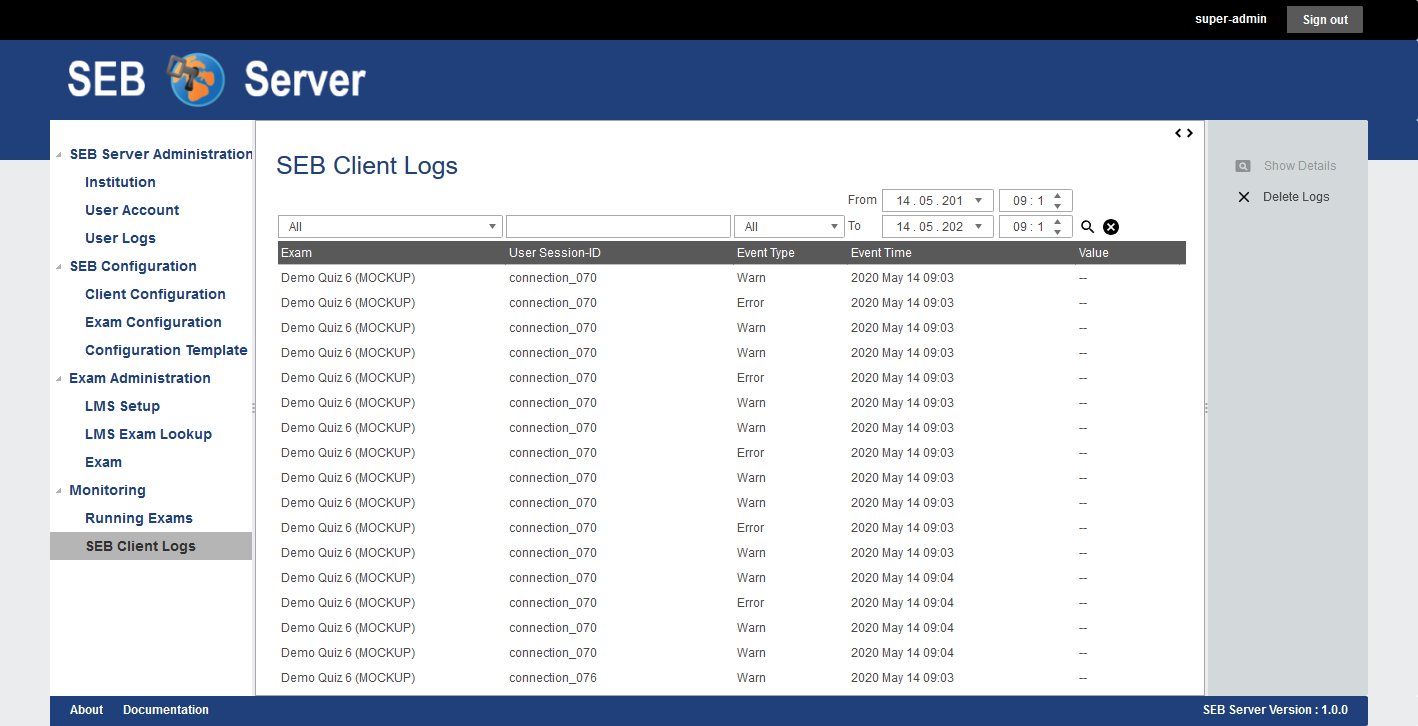
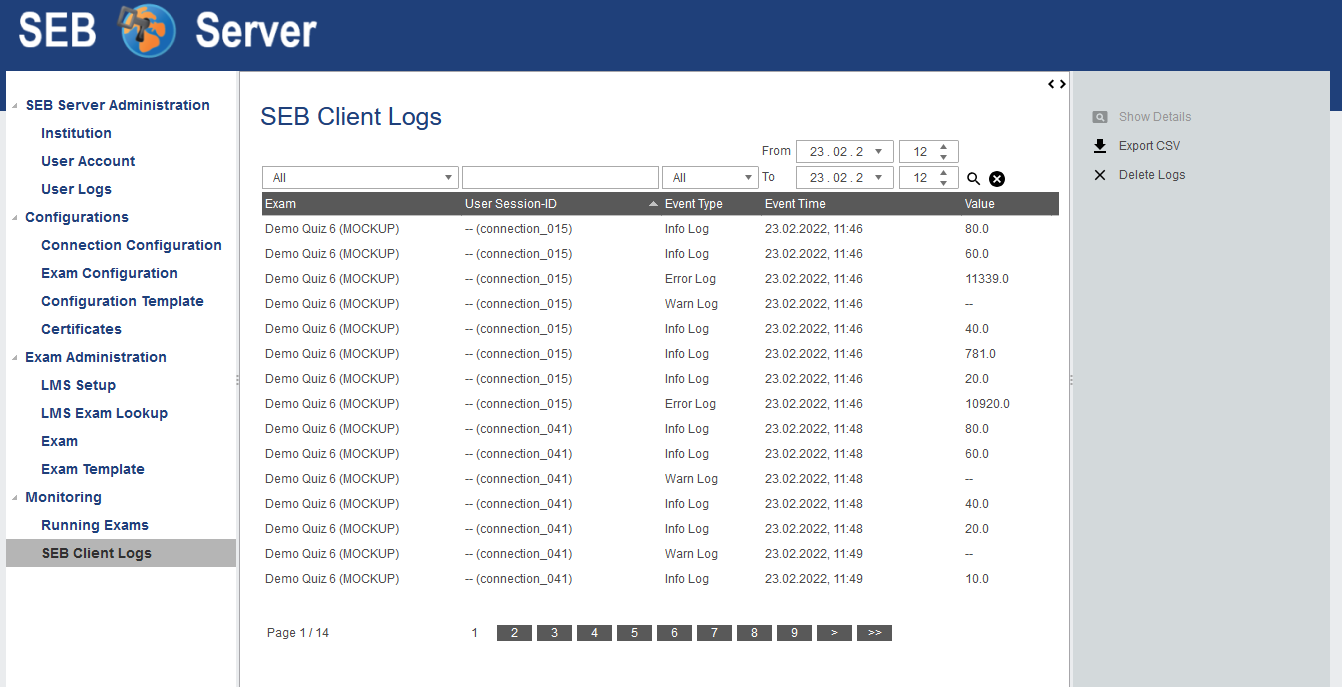
Update user-docu

diff --git a/src/main/java/ch/ethz/seb/sebserver/gui/content/exam/ExamProctoringSettings.java b/src/main/java/ch/ethz/seb/sebserver/gui/content/exam/ExamProctoringSettings.java
@@ -326,6 +326,24 @@ public class ExamProctoringSettings {
 
             return () -> formHandle;
         }
+
+//        TODO
+//        private void procServiceSelection(final Form form) {
+//            final ProctoringServerType proctoringServerType = ProctoringServerType
+//                    .valueOf(form.getFieldValue(ProctoringServiceSettings.ATTR_SERVER_TYPE));
+//            switch (proctoringServerType) {
+//                case ZOOM: {
+//                    form.setFieldVisible(true, ProctoringServiceSettings.ATTR_SDK_KEY);
+//                    form.setFieldVisible(true, ProctoringServiceSettings.ATTR_SDK_SECRET);
+//                    break;
+//                }
+//                default: {
+//                    form.setFieldVisible(false, ProctoringServiceSettings.ATTR_SDK_KEY);
+//                    form.setFieldVisible(false, ProctoringServiceSettings.ATTR_SDK_SECRET);
+//                }
+//            }
+//        }
+
     }
 
 }

diff --git a/docs/monitoring.rst b/docs/monitoring.rst
@@ -21,9 +21,9 @@ exam administrator of your institution to get help and check if you are correctl
 To monitor an exam either double-click on the list entry of the exam or select the list entry and use the "Monitoring" action form the
 right action pane to navigate into the main page of exam monitoring.
 
-On the the main page of exam monitoring you find a list of all SEB client connections that has been connected to the exam since the
-exam is running. There are some filter switches on the right action pane that may hide some canceled and/or closed SEB connections but
-you should see at least all active connections instantly.
+On the the main page of exam monitoring you find a heat-map list of all SEB client connections that are connected to the exam since the
+exam is running. There are state filter switches on the right action pane that allows to show/hide SEB client connection of specified states.
+As default you should see at least all active connections instantly.
 
 .. image:: images/monitoring/examMonitoring.png
     :align: center
@@ -33,12 +33,32 @@ The list is automatically sorted in the way that SEB connections with incidents 
 "User Name or Session" identifier criteria. The general SEB client connection attributes are:
 
 - **User Name or Session** The user account or user session identifier sent by the LMS to the SEB client and from SEB client to the SEB Server. This identifier may vary depending on the LMS that is involved. For Open edX it is the user account identifier (username). 
-- **IP Address** The IP address of the device the connected SEB client is running.
-- **Status** The status of the SEB client connection. 
+- **Connection Info** The IP address of the device the connected SEB client is running plus some additional information about the operating system and the SEB version.
+- **Status** The status of the SEB client connection.
 
-This general attributes are followed by the indicator attributes of all indicator defined by the exam. The column name of an indicator is
-the name of the indicator defines in the exam and the cell shows the measured value of the indicator for each SEB client connection and
-the cell is tinted in the color of the reached threshold also defined for each indicator on the exam.
+The following SEB connection states are defined:
+
+- **Connection Requested** This state appears from when a SEB client contacted to SEB Server the first time until the SEB client has finished up the hand-shake protocol with the SEB Server and the student has logged into the LMS.
+- **Active** This state appears after successful hand-shake and login into LMS and stays as long as the SEB connection is available and not closed or terminated
+- **Missing** This state appears when a SEB connection is currently in active state but has missing ping (last ping last longer then the highest ping threshold of the ping indicator).
+- **Closed** This state marks a closed SEB connection that was once active.
+- **Canceled** This state marks a SEB connection that has been canceled.
+
+This general connection attributes are followed by the indicator attributes of all indicator defined by the exam. The column name of an indicator is
+the name of the indicator defined in the exam. The cell shows the measured value of the indicator for each SEB client connection and
+the cell is tinted in the color of the reached threshold also defined for each indicator on the exam administration.
+
+**Search**
+
+Since the monitoring heat-map list is automatically sorted and cannot be filtered except on connection status, there is a search feature to find a
+particular connection or a set of connections. To search connection on a running exam, please use the "Search" action from the right action pane.
+A search pop-pup will appear with all connection is a usual list with the possibility to filter and sort the entires.
+Double-click on an entry to go to the detail view of the specified SEB client connection.
+
+.. image:: images/monitoring/search.png
+    :align: center
+    :target: https://raw.githubusercontent.com/SafeExamBrowser/seb-server/master/docs/images/monitoring/search.png
+    
 
 **Instructions**
 
@@ -51,16 +71,20 @@ with usual list (multi)selection by holding Ctrl or Shift key plus right mouse c
 
 **Filter**
 
-There are some filter to hide/show SEB client connection of in particular states. These are located in the right action pane has the name of the
-filter action that will be performed on click and the name of the effected connection status. With this actions you are able to toggle between
+There are connection state filter to hide/show SEB client connection in particular states. These are located in the right action pane hand has the name of the
+filter action that will be performed on click (hide/show) and the name of the affected connection status. With this actions you are able to toggle between
 hide and show SEB client connection of a particular state.
 
-- **Show/Hide Closed** Use this to show or hide all SEB client connections that are currently in the "Closed" state.
 - **Show/Hide Requested** Use this to show or hide all SEB client connections that are currently in the "Requested" state and are not responding anymore.
+- **Show/Hide Active** Use this to hide SEB client connections in active state that has no incident and are not missing. If this filter is enabled and an active SEB connection gets an incident or is marked as missing it suddenly appears in the list. So no incidences are accidentally hidden. This feature is best used for exams with a lot of participants to keep a good overview.
+- **Show/Hide Closed** Use this to show or hide all SEB client connections that are currently in the "Closed" state.
 - **Show/Hide Canceled** Use this to show or hide all SEB client connections that are currently in the "Canceled" state.
 
+Since SEB Server version 1.3 each filter also shows the current number of connection in the particular state. Now one has an overview of how many connections 
+are there for an exam and in witch state.
+
 .. note::
-    When a certain state filter is set to hide and a particular SEB client connection switches into that state, it will automatically be hiding from the list.
+    When a certain state filter is set to hide and a particular SEB client connection switches into that state, it will automatically disappear from the list.
 
 Detailed View
 -------------
@@ -84,11 +108,11 @@ Live Proctoring
 ---------------
 
 .. note::
-    This feature is still in a prototype state and not all functionality meight work as expected. Basically the meeting features
+    This feature is still in a prototype state and not all functionality might work as expected. Basically the meeting features
     are given or restricted by the meeting service that is used and the API and GUI that is given by that meeting service client
 
     
-**Collecting Rooms**
+**Proctoring (Collecting) Rooms**
 
 When the exam live proctoring feature is enabled for the running exam (see :ref:`sebProctoringSettings-label`), SEB Server will automatically create and collect 
 connected SEB clients into so called collecting rooms. The size of this collecting rooms can be defined within the proctoring settings in the exam.
@@ -107,14 +131,17 @@ load the detailed monitoring view of that participant.
     A collecting room, once created will live as long as the exam is running and not has been deleted. When the exam ends or is been deleted,
     the collecting room will automatically get deleted on the SEB Server's persistent storage as well as on the meeting service side if needed.
     
-**Town-hall Feature**
+**Town-Hall Feature**
     
 Beside the usual collecting room, there is a town-hall room feature. By using the "Open Townhall" action from the right action pane, SEB Server enforce all SEB clients that
 are in collecting rooms as well as new connecting SEB clients to leave their current meeting and join the town-hall meeting for as long as the town-hall is active.
 Within the town-hall a proctor has the same features as in the collecting room but can connect to all participants at the same time.
 When the town-hall is closed all connected SEB clients are enforced to leave the town-room and go back to its collecting room meetings again.
+
+.. note:: 
+    This feature is only available if it is enabled within the exam proctoring settings in the exam administration.
     
-**Single Room Feature**
+**Single Room or One-to-One Room Feature**
 
 Another live proctoring feature can be found in the detailed monitoring view of one particular SEB client connection. The single room features allows a proctor to connect to a single
 participant and being able to view or communication with just this one participant. You can initiate this single room connection by using the "Single Room Proctoring" action on 
@@ -125,6 +152,9 @@ When the single room is closed the connected SEB clients is enforced to leave th
 .. image:: images/monitoring/proctoringClient.png
     :align: center
     :target: https://raw.githubusercontent.com/SafeExamBrowser/seb-server/master/docs/images/monitoring/proctoringClient.png
+
+.. note:: 
+    This feature is only available if it is enabled within the exam proctoring settings in the exam administration.
 
 **Boradcast Features**
 
@@ -141,6 +171,17 @@ A Student as well as a proctor is then able to use all the features of the meeti
 .. image:: images/monitoring/proctoringWindow.png
     :align: center
     :target: https://raw.githubusercontent.com/SafeExamBrowser/seb-server/master/docs/images/monitoring/proctoringWindow.png
+
+.. note:: 
+    Each of this features is only available if it is enabled within the exam proctoring settings in the exam administration.
+
+**Known Issues with Live Proctoring**
+
+- Within the Zoom service it often happens that a participant appear twice in a room or meeting. This is probably caused by SEB clients rejoining the meetings while rooms or feature settings are changed.
+- In Zoom it is not possible to fully control a participant microphone. Therefore it may happen that participant can hear each other even if no proctor is in the meeting.
+- Within Jitsi Meet service when a proctor leaves the room it currently happens that a random participant became host/moderator since it is not possible in Jitsi Meet to have a meeting without host. We try to mitigate the problem with the `moderator plugin <https://github.com/nvonahsen/jitsi-token-moderation-plugin>`_ or `Jitsi Meet SaS <https://jaas.8x8.vc/#/>`_
+- In both services while broadcasting, it is not guaranteed that a student always see the proctor. Usually the meeting service shows or pins the participant that is currently speaking automatically.
+ 
 
 
 All SEB Client Logs
@@ -166,19 +207,20 @@ action form the right action pane to open up a pop-up containing all related inf
 Currently there is no export functionality to export all interessting SEB client logs to a CSV table for example. But such a feature will probably come
 with a next version of SEB Server.
 
+**Export filtered client logs**
+
+To export all currently filtered client logs in CSV format, please use the "Export CSV" action form the right action pane. SEB Server will then convert and download
+all client logs for you. This might take some time if there are a lot of logs to export.
+
+.. note:: 
+    Please avoid exporting of huge log files while one or more performance intensive exam are running to not stress the service unnecessarily.
+
 **Delete filtered client logs**
 
 To delete all currently filtered client logs, please use the "Delete Logs" action form the right action pane. 
 
 .. note:: 
-    On deletion, all available logs will permanantly be deleted from the persistent storage. So please make sure you want to delete all
+    On deletion, all available logs will permanently be deleted from the persistent storage. So please make sure you want to delete all
     logs that are currently displayed in the list before deleting.
     
     
-**Known Issues**
-
-- Within the Zoom service it often happens that a participant appear twice in a room or meeting. This is probably caused by SEB clients rejoining the meetings while rooms or feature settings are changed.
-- In Zoom it is not possible to fully control a participant microphone. Therefore it may happen that participant can hear each other even if no proctor is in the meeting.
-- Within Jitsi Meet service when a proctor leaves the room it currently happens that a random participant became host/moderator since it is not possible in Jitsi Meet to have a meeting without host. We try to mitigate the problem with the `moderator plugin <https://github.com/nvonahsen/jitsi-token-moderation-plugin>`_ or `Jitsi Meet SaS <https://jaas.8x8.vc/#/>`_
-- In both services while broadcasting, it is not guaranteed that a student always see the proctor. Usually the meeting service shows or pins the participant that is currently speaking automatically.
- 

diff --git a/docs/exam_proctoring.rst b/docs/exam_proctoring.rst
@@ -11,7 +11,7 @@ meeting rooms, instruct connected SEB clients to join a certain meeting room. SE
 allowing connected SEB clients to receive audio and video as well as enabling chat functionality.
 
 .. note::
-    This feature is still in a prototype state and not all functionality meight work as expected. Basically the meeting features
+    This feature is still in a prototype state and not all functionality might work as expected. Basically the meeting features
     are given or restricted by the meeting service that is used and the API and GUI that is given by that meeting service client
 
 To be able to use the integrated live proctoring feature with SEB and SEB Server you need an external meeting service that can be used by the SEB Server to automatically create meetings.
@@ -35,7 +35,29 @@ the external meeting service. SEB Server will then try to connect to the meeting
 Within the "Collecting Room Size" field you can define the number of maximal participants that shall be collected within one proctoring room. SEB Server will automatically
 create these collecting rooms while SEB clients are connecting to the running exam in the monitoring view.
 
-After you have all the settings set, use "OK" to confirm the settings. SEB Server will then try to connect to the meeting service with the given settings and check the access.
+.. note::
+    If you choose Zoom as your proctoring service and you also want to conduct your exam with Mac and/or iOS SEB Clients you will also need a Zoom SDK-Key and -Secret since SEB Mac/iOS uses Zoom SDK for proctoring integration.
+
+Scroll down the Proctoring Settings window to see more settings for SEB Server based proctoring features:
+
+.. image:: images/exam/proctoringSettings2.png
+    :align: center
+    :target: https://raw.githubusercontent.com/SafeExamBrowser/seb-server/master/docs/images/exam/proctoringSettings2.png
+    
+- Use Zoom App-Client: Enable this setting to use a Zoom App/Desktop client for the origin proctoring room. This needs an existing Zoom Desktop App installation on the proctor's desktop.
+- Broadcasting Feature: Enable this to see the broadcasting features buttons in the opened proctoring windows. E.g. "Enable/Disable Audio" and "Enable/Disable Video" buttons.
+- Chat Feature: Enable this to see the "Enable/Disable Chat" feature buttons in the opened proctoring windows.
+- One to One Room: Enable this to see the One to One Room feature button during an exam monitoring within a SEB Client detail view
+- Town-Hall Room: Enable this to see the Town-Hall Room feature button in the exam monitoring view
+
+To read more about this proctoring features, please have a look at `Exam Monitoring <https://seb-server.readthedocs.io/en/latest/monitoring.html#live-proctoring>`_.
+
+After you have all the settings done, use "OK" to confirm the settings. SEB Server will then try to connect to the meeting service with the given settings and check the access.
+
+.. note::
+    Once a proctoring service is integrated for an exam, it is currently not possible to switch it to another service anymore. 
+    This is because different services needs different meeting reference data on SEB Server and there is no conversion supported.
+    In the future we will make it possible to at least delete a already existing proctoring setup and to start from scratch.
 
 The SEB client settings for proctoring can be found in the "Exam Configuration" "SEB Settings". There is a new tab with the name "Proctoring" where all SEB settings for proctoring are available.
 These settings are directly used by a SEB client that supports the proctoring feature. SEB will initialize with this settings when connecting to SEB Server and also will use this settings as default settings during an exam.
@@ -45,10 +67,10 @@ These settings are directly used by a SEB client that supports the proctoring fe
     :target: https://raw.githubusercontent.com/SafeExamBrowser/seb-server/master/docs/images/exam/proctoringSEBSettings.png
 
 Since SEB Server version 1.2 there is also an Zoom service section  that let you define the default SEB settings for a Zoom proctoring setup.
-Please be aware that not all of the settings are functioning yet. Please refer to the the settings tooltip to get a actual description of
+Please be aware that not all of the settings are functioning yet. Please refer to the the settings tool-tip to get a actual description of
 a particular SEB feature setting
 
-**Jitsi Meet***
+**Jitsi Meet**
 
 To setup and configure a Jitsi Meet service for testing you can refer to the `Docker installation documentation <https://jitsi.github.io/handbook/docs/devops-guide/devops-guide-docker>`_
  
